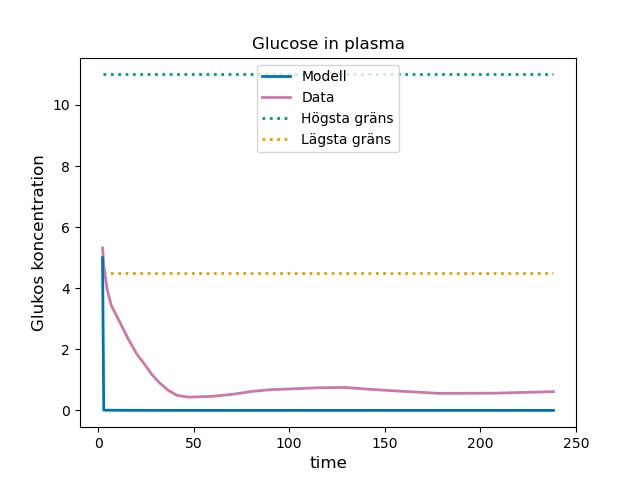
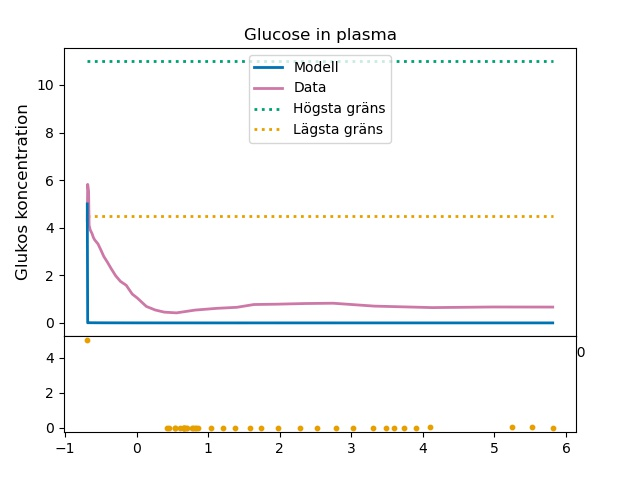
How much we can plot

diff --git a/optimering/plot_open_loop.py b/optimering/plot_open_loop.py
@@ -8,14 +8,16 @@ import scipy.integrate as integrate
 cb_palette1 = ["#999999", "#E69F00", "#56B4E9", "#009E73", "#F0E442", "#0072B2", "#D55E00", "#CC79A7"]
 
 # Hämta data
-data_G = pd.read_csv ('data_horses\Glukos_new_FFaraber.csv', sep=';')
-data_I = pd.read_csv ('data_horses\insulin_new_FFaraber.csv', sep=';')
+data_G = pd.read_csv ('data_horses/Glukos_FFaraber.csv', sep=';')
+data_I = pd.read_csv ('data_horses/Insulin_FF_araber.csv', sep=';')
 data_G = data_G.sort_values(by = ['tid'])
 data_I = data_I.sort_values(by = ['tid'])
 
 # Tidsvektorer
 tG_vec = data_G['tid'].values
 tI_vec = data_I['tid'].values
+cG_vec = data_G['konc'].values
+cI_vec = data_I['conc'].values
 
 time_span_G = [tG_vec[0], tG_vec[-1]]
 time_span_I = [tI_vec[0], tI_vec[-1]]
@@ -93,6 +95,7 @@ yM2_coordinates = [13,13]  # mmol (human)
 # plotta glukos
 lw = 2.0
 plot1 = plt.figure(1)
+frame1 = plot1.add_axes([.1, .3, .8, .6])
 line1, = plt.plot(xG_coordinates, yG1_coordinates, linestyle=":", linewidth=lw, color=cb_palette1[1])
 line2, = plt.plot(xG_coordinates, yG2_coordinates, linestyle=":", linewidth=lw, color=cb_palette1[3])
 line3, = plt.plot(data_G['tid'].values, data_G['konc'].values, label = 'Glukos', linestyle="-", linewidth=lw, color=cb_palette1[7])
@@ -100,6 +103,12 @@ line4, = plt.plot(data_G['tid'].values, G_model, label = 'Glukos', linestyle="-"
 plt.legend((line4, line3, line2, line1), ("Modell", "Data", "Högsta gräns","Lägsta gräns"))
 plt.xlabel("time", fontsize=12), plt.ylabel("Glukos koncentration", fontsize=12)
 plt.title("Glucose in plasma")
+
+# Residual plot for glucose
+difference = cG_vec - G_model
+frame2 = plot1.add_axes([.1, .1, .8, .2])
+plt.scatter(difference, G_model, s = 10 , color = cb_palette1[1])
+
 
 # Sparar figur i plot constrains, glukos
 # Write the result to file
@@ -113,7 +122,8 @@ plt.savefig(path_fig)
 
 # plotta insulin
 lw = 2.0
-plot1 = plt.figure(2)
+plot2 = plt.figure(2)
+frame3 = plot2.add_axes([.1, .3, .8, .6])
 line1, = plt.plot(xI_coordinates, yI1_coordinates, linestyle=":", linewidth=lw, color=cb_palette1[6])
 line2, = plt.plot(xI_coordinates, yI2_coordinates, linestyle=":", linewidth=lw, color=cb_palette1[3])
 line3, = plt.plot(data_I['tid'].values, data_I['conc'].values, label = 'Insulin', linestyle="-", linewidth=lw, color=cb_palette1[7])
@@ -121,6 +131,12 @@ line4, = plt.plot(data_I['tid'].values, I_model, label = 'Insulin', linestyle="-
 plt.legend((line4, line3, line2, line1), ("Modell", "Data", "Högsta gräns","Lägsta gräns"))
 plt.xlabel("time", fontsize=12), plt.ylabel("Insulin koncentration", fontsize=12)
 plt.title("Insulin in plasma")
+
+# Residual plot for insulin
+difference = cI_vec - I_model
+frame4 = plot2.add_axes([.1, .1, .8, .2])
+plt.scatter(difference, I_model, s = 10 , color = cb_palette1[1])
+
 
 # Sparar figur i plot constrains, insulin
 # Write the result to file

diff --git a/Learn/test_LHS.py b/Learn/test_LHS.py
@@ -1,0 +1,15 @@
+import lhsmdu
+import matplotlib.pyplot as plt
+import numpy
+
+l = lhsmdu.sample(2,10) # Latin Hypercube Sampling of two variables, and 10 samples each.
+k = lhsmdu.createRandomStandardUniformMatrix(2,10) # Monte Carlo Sampling
+
+fig = plt.figure()
+ax = fig.gca()
+ax.set_xticks(numpy.arange(0,1,0.1))
+ax.set_yticks(numpy.arange(0,1,0.1))
+plt.scatter(k[0], k[1], color="b", label="LHS-MDU")
+plt.scatter(l[0], l[1], color="r", label="MC")
+plt.grid()
+plt.show()
